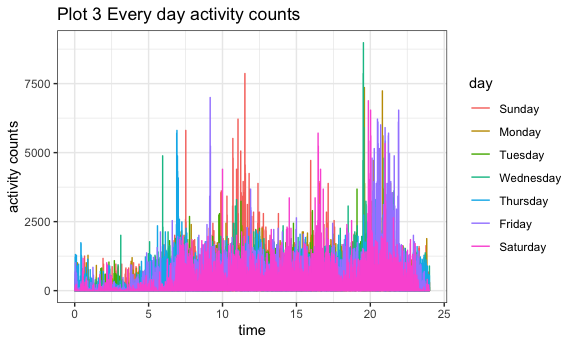
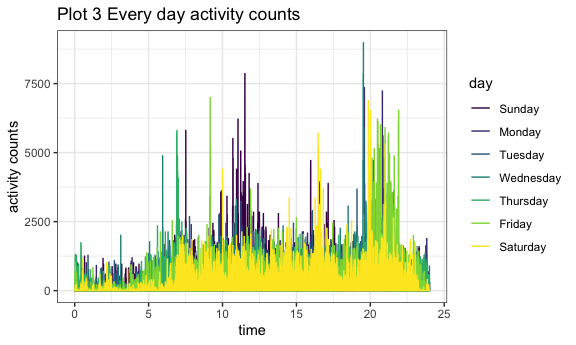
add some changes.

diff --git a/p8105_hw3_xw2676.md b/p8105_hw3_xw2676.md
@@ -15,12 +15,13 @@ theme_set(theme_bw())
 ```
 
 There are 1384617 observations and 15 variables in instacart dataset.
-The key variables are reordered，days\_since\_prior\_order,
-product\_name, aisle, department. For example, there is a customer whose
-id is 112108 bought an order whose id is 1 in 10:00 am Thursday. Among
-these products, such as yogurt or cheese, there are 4 products that he
-have bought before. And this order is his fourth order. It has been 9
-days ever since his prior
+The key variables are order\_id，product\_id, order\_dow,
+order\_hour\_of\_day, product\_name,
+aisle\_id,department\_id,aisle,department. For example, there is a
+customer whose id is 112108 bought an order whose id is 1 in 10:00 am
+Thursday. Among these products, such as yogurt or cheese, there are 4
+products that he have bought before. And this order is his fourth order.
+It has been 9 days ever since his prior
 order.
 
 #### 1）
@@ -1732,7 +1733,7 @@ activity is decreasing.
 accel_data %>% 
   group_by(day_order) %>% 
   ggplot(aes(x = time, y = activity_counts, color = day)) +
-  geom_line() +
+  geom_line() + viridis::scale_color_viridis(discrete = TRUE)+
 labs(
        x = "time",
        y = "activity counts",
